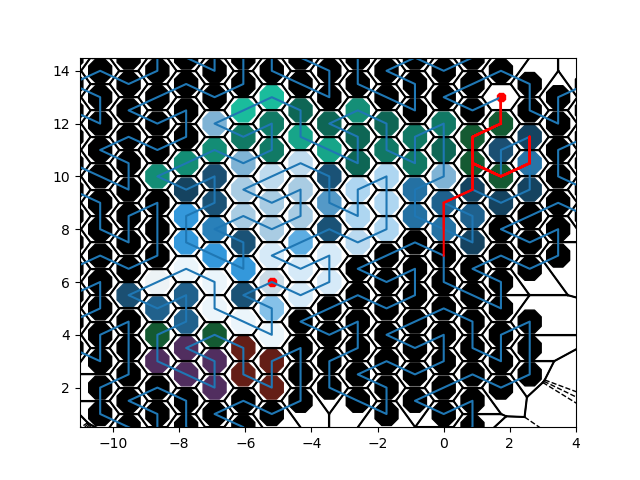
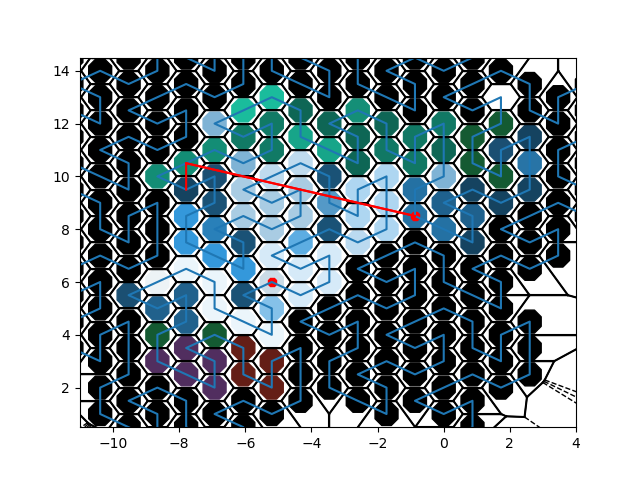
DONE 动态图，构建实验环境，不适用FCN方式录入 DONE 规则 DONE 边界 DONE 轨迹存入csv中 DONE 移动步骤 TODO FCN CNN 识别录入数据 TODO 模型加入 TODO Agent 条件跳转 DONE page之间跳转

diff --git a/main.py b/main.py
@@ -9,20 +9,15 @@ if __name__ == '__main__':
     # 惩罚
     punish = []
 
-    born = Points(1.73, 13, '8', 'r')
+    born = Points(-0.87,8.50, '8', 'r')
     dest = Points(-5.20, 6.00, '8', 'r')
     gridMap = GridMapEnv('./envir/gosper.csv',border_x,border_y,punish)
     (data, points) = gridMap.readData()
     gridMap.createVoronoi(points)
     gridMap.bornToDes(born, dest)
     gridMap.drawGridMap(data['x'], data['y'], data['color'])
-    # 运动
-    point = gridMap.action(born, 0, 1)
-    gridMap.saveTrace()
-    gridMap.showTrace()
-    gridMap.show()
-
-    point = gridMap.action(point, 100, 1)
+    # 运动,元素，页面跳转
+    point = gridMap.action(born, 111, 2)
     gridMap.saveTrace()
     gridMap.showTrace()
     gridMap.show()
@@ -31,53 +26,58 @@ if __name__ == '__main__':
     gridMap.saveTrace()
     gridMap.showTrace()
     gridMap.show()
-
-    point = gridMap.action(point, 1, 1)
-    gridMap.saveTrace()
-    gridMap.showTrace()
-    gridMap.show()
-
-    point = gridMap.action(point, 11, 1)
-    gridMap.saveTrace()
-    gridMap.showTrace()
-    gridMap.show()
-
-    point = gridMap.action(point, 10, 1)
-    gridMap.saveTrace()
-    gridMap.showTrace()
-    gridMap.show()
-
-    point = gridMap.action(point, 0, 1)
-    gridMap.saveTrace()
-    gridMap.showTrace()
-    gridMap.show()
-
-    point = gridMap.action(point, 100, 1)
-    gridMap.saveTrace()
-    gridMap.showTrace()
-    gridMap.show()
-
-    point = gridMap.action(point, 110, 1)
-    gridMap.saveTrace()
-    gridMap.showTrace()
-    gridMap.show()
-
-    point = gridMap.action(point, 0, 1)
-    gridMap.saveTrace()
-    gridMap.showTrace()
-    gridMap.show()
-
-    point = gridMap.action(point, 100, 1)
-    gridMap.saveTrace()
-    gridMap.showTrace()
-    gridMap.show()
-
-    point = gridMap.action(point, 0, 1)
-    gridMap.saveTrace()
-    gridMap.showTrace()
-    gridMap.show()
-
-    point = gridMap.action(point, 0, 1)
-    gridMap.saveTrace()
-    gridMap.showTrace()
-    gridMap.show()
+    #
+    # point = gridMap.action(point, 0, 1)
+    # gridMap.saveTrace()
+    # gridMap.showTrace()
+    # gridMap.show()
+    #
+    # point = gridMap.action(point, 1, 1)
+    # gridMap.saveTrace()
+    # gridMap.showTrace()
+    # gridMap.show()
+    #
+    # point = gridMap.action(point, 11, 1)
+    # gridMap.saveTrace()
+    # gridMap.showTrace()
+    # gridMap.show()
+    #
+    # point = gridMap.action(point, 10, 1)
+    # gridMap.saveTrace()
+    # gridMap.showTrace()
+    # gridMap.show()
+    #
+    # point = gridMap.action(point, 0, 1)
+    # gridMap.saveTrace()
+    # gridMap.showTrace()
+    # gridMap.show()
+    #
+    # point = gridMap.action(point, 100, 1)
+    # gridMap.saveTrace()
+    # gridMap.showTrace()
+    # gridMap.show()
+    #
+    # point = gridMap.action(point, 110, 1)
+    # gridMap.saveTrace()
+    # gridMap.showTrace()
+    # gridMap.show()
+    #
+    # point = gridMap.action(point, 0, 1)
+    # gridMap.saveTrace()
+    # gridMap.showTrace()
+    # gridMap.show()
+    #
+    # point = gridMap.action(point, 100, 1)
+    # gridMap.saveTrace()
+    # gridMap.showTrace()
+    # gridMap.show()
+    #
+    # point = gridMap.action(point, 0, 1)
+    # gridMap.saveTrace()
+    # gridMap.showTrace()
+    # gridMap.show()
+    #
+    # point = gridMap.action(point, 0, 1)
+    # gridMap.saveTrace()
+    # gridMap.showTrace()
+    # gridMap.show()

diff --git a/envir/GridMapEnv.py b/envir/GridMapEnv.py
@@ -60,7 +60,8 @@ class GridMapEnv:
         # 惩罚
         self.punish = punish
         self.data = {}
-        #
+        # 跨页flag
+        self.isToPageThenStep = 0
 
     # read data from csv
     def readData(self):
@@ -106,7 +107,7 @@ class GridMapEnv:
     # draw line and points
     def drawGridMap(self, x, y, color):
         plt.scatter(x, y, color=color, s=320, marker='8')
-        plt.plot(x, y)
+        # plt.plot(x, y)
         # plt.axis([-18, 8, -2, 22])
         plt.axis([-11, 4, 0.5, 14.5])
         # plt.xlim([-9,0]), plt.ylim([3,12])
@@ -173,7 +174,8 @@ class GridMapEnv:
             110: self.toLEFTUP,
             1: self.toRIGHTDOWN,
             100: self.toLEFTDOWN,
-            11: self.toRIGHTUP
+            11: self.toRIGHTUP,
+            111: self.toPage
         }
         act = dires.get(direction)
         if act:
@@ -255,6 +257,20 @@ class GridMapEnv:
         self.againstRules(tp)
         return point
 
+    # 页面之间跳转，只能向下
+    def toPage(self, point, pageNum):
+        point = self.getPointInfo(point)
+        pageNums = self.getPageDom(point)
+        tp = TracePart({}, {})
+        tp.start_point = copy.copy(point)
+        point = self.getPointInfo(Point(pageNums.iloc[pageNum-1].values[1], pageNums.iloc[pageNum-1].values[2]))
+        tp.end_point = copy.copy(point)
+        self.trace.append(tp)
+        self.acrossSide(point)
+        # self.againstRules(tp)
+        self.isToPageThenStep=1
+        return point
+
     # DONE save trace
     def saveTrace(self):
         # with open('./datasets/trace.txt', "w") as f:  # 设置文件对象
@@ -332,18 +348,28 @@ class GridMapEnv:
         if LOD_l < 3 and LOD_l > 0:
             if isLoger:
                 if e[:-LOD_l] == s:
+                    self.isToPageThenStep=0
                     print("奖励")
                     return
                 else:
                     print("非父子惩罚")
                     return
             else:
+                # 页面跳转错误
+                if self.isToPageThenStep == 1:
+                    print("页面之后向上一层跳转 ERROR")
+                    return
+                # 同级
                 if s[:-LOD_l] == e:
                     print("奖励")
                     return
                 else:
                     print("非父子惩罚")
                     return
+        # 页面跳转错误
+        if self.isToPageThenStep == 1:
+            print("页面之后同级元素进行跳转 ERROR")
+            return
         # 同级
         if LOD_l == 0:
             if e[:-1] == s[:-1]:
@@ -379,3 +405,8 @@ class GridMapEnv:
                           useful_data_2['LOD'].values[0])
         else:
             return {}
+
+    # DONE 查询page相关结点
+    def getPageDom(self, point):
+        pageDom = self.data[(self.data['element'] == point.element)]
+        return pd.DataFrame(pageDom.drop(pageDom[(pageDom['x'] == point.x) & (pageDom['y'] == point.y)].index))
